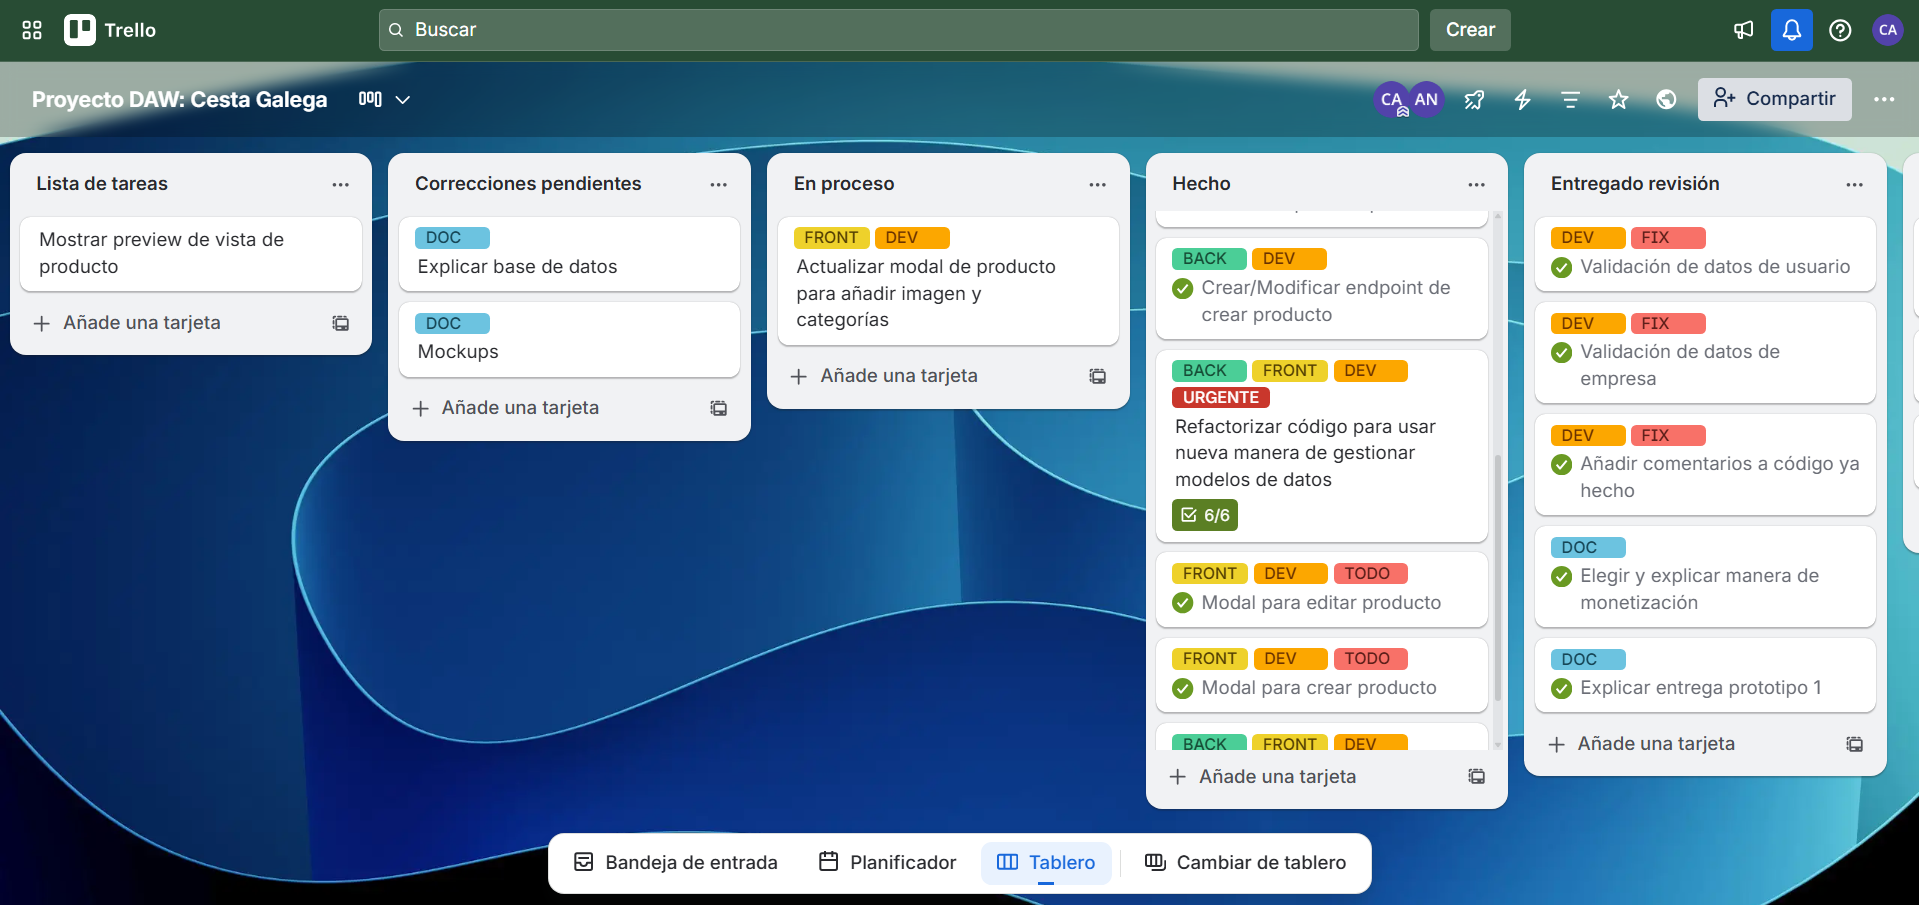
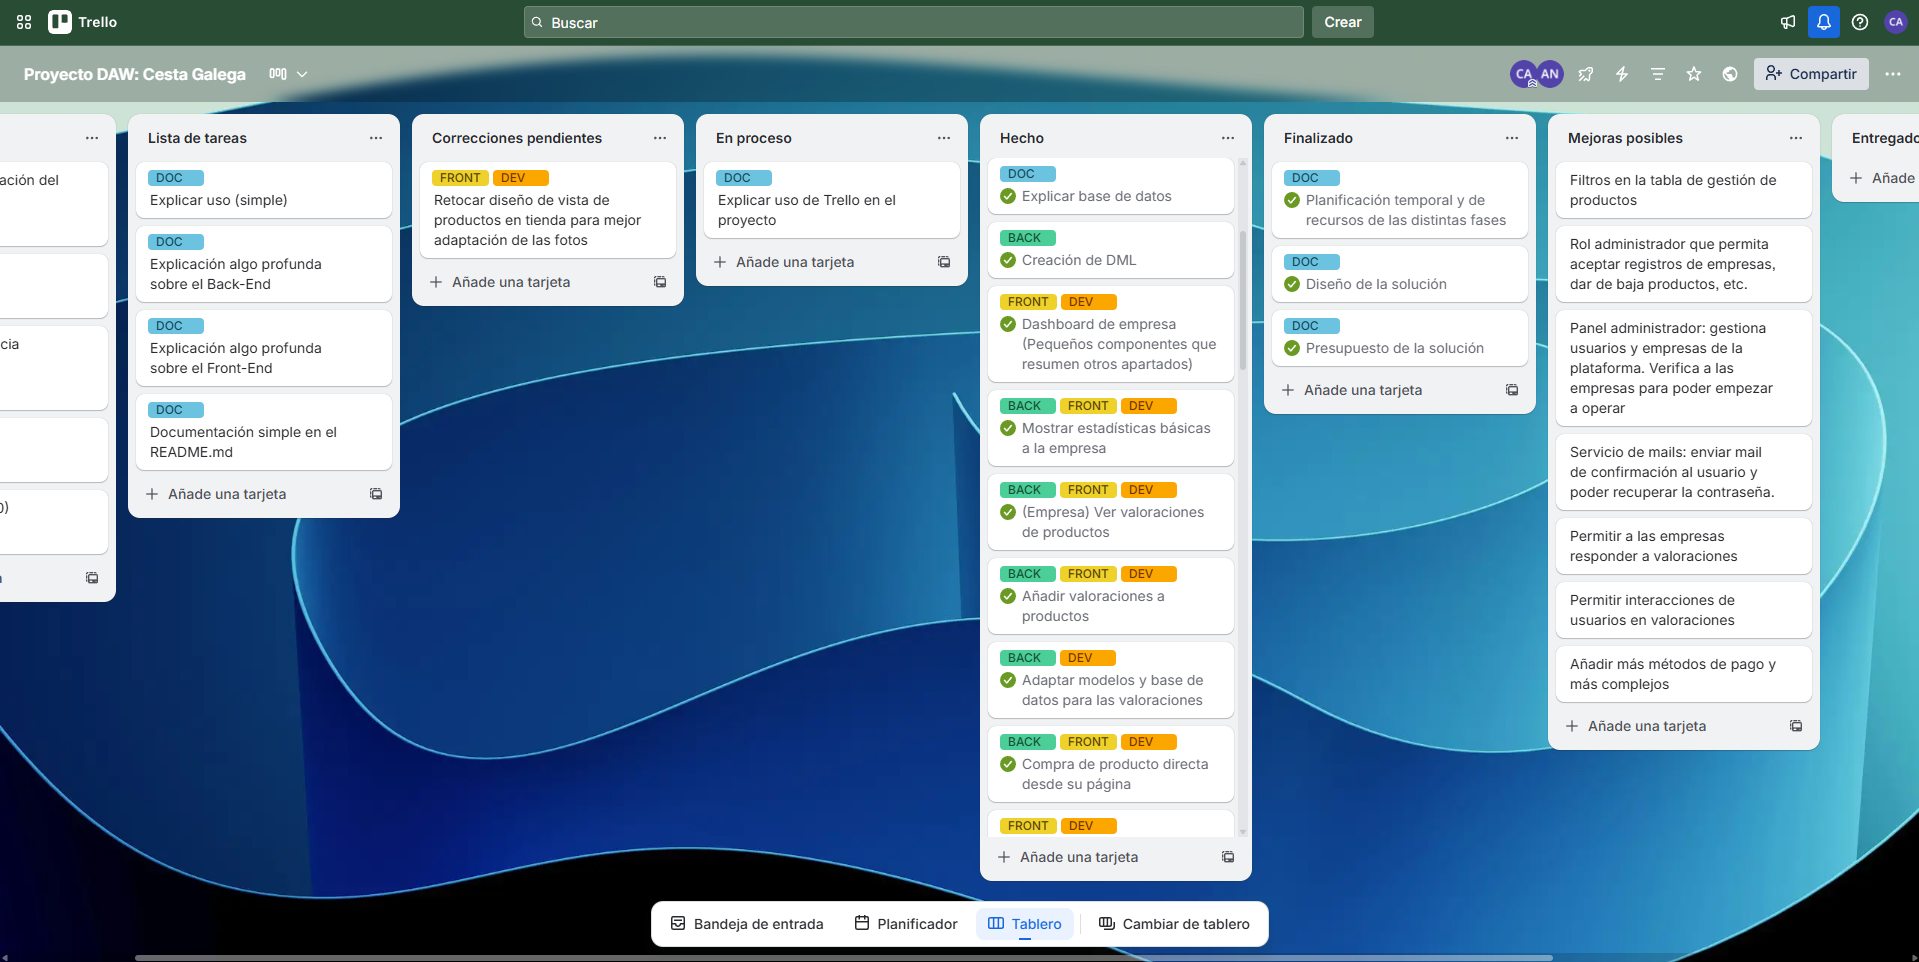
docs: explica metodología Kanban y Trello

diff --git a/doc/doc.md b/doc/doc.md
@@ -756,6 +756,20 @@ Al solicitar la ayuda del kit digital, al ser una empresa de entre 3 y 9 emplead
 
 Estas ayudas permiten reducir costes iniciales y fomentar el crecimiento sostenible del proyecto.
 
+## Organización: Metodología Kanban
+
+Para organizar el trabajo he utilizado una aproximación a _Kanban personal_, implementada mediante un tablero de Trello.
+El tablero se estructura en varias columnas que representan los estados del fujo de trabajo (Pendiente, en proceso, hecho, mejoras...)
+y cada tarea del proyecto se modela como una tarjeta que se va desplazando entre columnas a medida que avanza.
+
+Este enfoque permite visualizar de forma clara el progreso, limitar el número de tareas en curso y priorizar de manera flexible,
+manteniendo el flujo de trabajo continuo y fácil de adaptar a un desarrollo individual.
+
+Esta es una imagen del Trello en un momento del desarrollo del proyecto, se pueden ver las distintas columnas y las tareas
+etiquetadas para mayor organización.
+
+![Captura de pantalla de Trello](img/trello-captura.png)
+
 ## Entregas
 
 ### Prototipo 1: 07/09/2025
